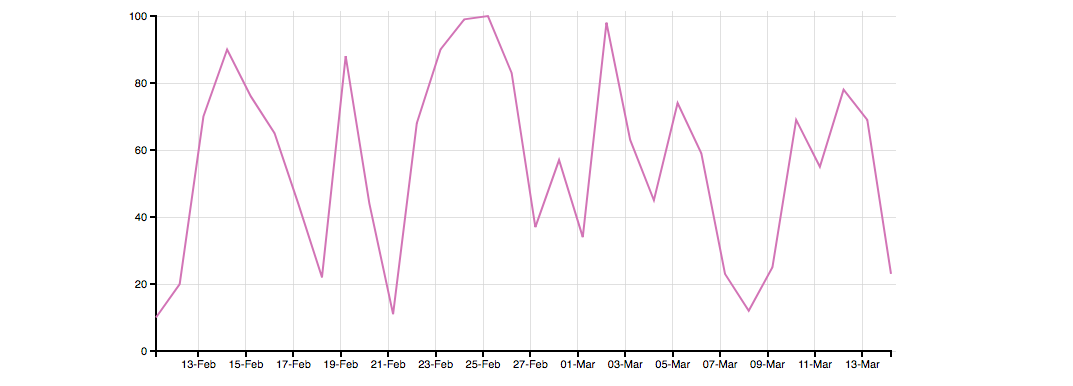
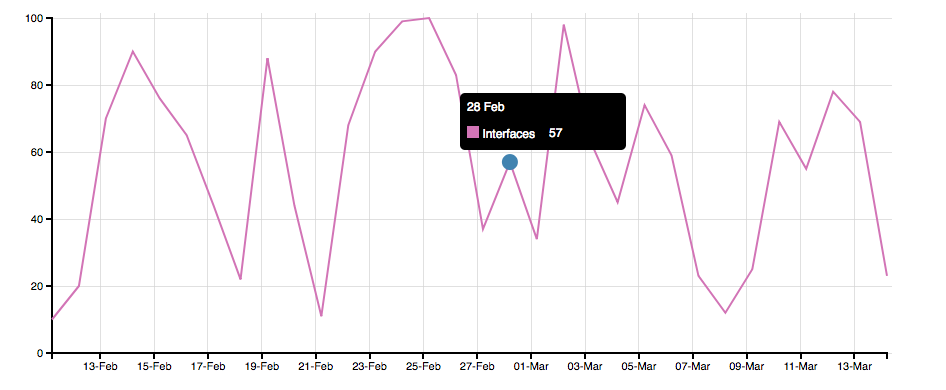
Stacked area with interactive tooltip

diff --git a/underscore.js b/underscore.js
@@ -1,0 +1,5 @@
+//     Underscore.js 1.9.0
+//     http://underscorejs.org
+//     (c) 2009-2018 Jeremy Ashkenas, DocumentCloud and Investigative Reporters & Editors
+//     Underscore may be freely distributed under the MIT license.
+!function(){var n="object"==typeof self&&self.self===self&&self||"object"==typeof global&&global.global===global&&global||this||{},r=n._,e=Array.prototype,o=Object.prototype,s="undefined"!=typeof Symbol?Symbol.prototype:null,u=e.push,c=e.slice,p=o.toString,i=o.hasOwnProperty,t=Array.isArray,a=Object.keys,l=Object.create,f=function(){},h=function(n){return n instanceof h?n:this instanceof h?void(this._wrapped=n):new h(n)};"undefined"==typeof exports||exports.nodeType?n._=h:("undefined"!=typeof module&&!module.nodeType&&module.exports&&(exports=module.exports=h),exports._=h),h.VERSION="1.9.0";var v,y=function(u,i,n){if(void 0===i)return u;switch(null==n?3:n){case 1:return function(n){return u.call(i,n)};case 3:return function(n,r,t){return u.call(i,n,r,t)};case 4:return function(n,r,t,e){return u.call(i,n,r,t,e)}}return function(){return u.apply(i,arguments)}},d=function(n,r,t){return h.iteratee!==v?h.iteratee(n,r):null==n?h.identity:h.isFunction(n)?y(n,r,t):h.isObject(n)&&!h.isArray(n)?h.matcher(n):h.property(n)};h.iteratee=v=function(n,r){return d(n,r,1/0)};var g=function(u,i){return i=null==i?u.length-1:+i,function(){for(var n=Math.max(arguments.length-i,0),r=Array(n),t=0;t<n;t++)r[t]=arguments[t+i];switch(i){case 0:return u.call(this,r);case 1:return u.call(this,arguments[0],r);case 2:return u.call(this,arguments[0],arguments[1],r)}var e=Array(i+1);for(t=0;t<i;t++)e[t]=arguments[t];return e[i]=r,u.apply(this,e)}},m=function(n){if(!h.isObject(n))return{};if(l)return l(n);f.prototype=n;var r=new f;return f.prototype=null,r},b=function(r){return function(n){return null==n?void 0:n[r]}},j=function(n,r){for(var t=r.length,e=0;e<t;e++){if(null==n)return;n=n[r[e]]}return t?n:void 0},x=Math.pow(2,53)-1,_=b("length"),A=function(n){var r=_(n);return"number"==typeof r&&0<=r&&r<=x};h.each=h.forEach=function(n,r,t){var e,u;if(r=y(r,t),A(n))for(e=0,u=n.length;e<u;e++)r(n[e],e,n);else{var i=h.keys(n);for(e=0,u=i.length;e<u;e++)r(n[i[e]],i[e],n)}return n},h.map=h.collect=function(n,r,t){r=d(r,t);for(var e=!A(n)&&h.keys(n),u=(e||n).length,i=Array(u),o=0;o<u;o++){var a=e?e[o]:o;i[o]=r(n[a],a,n)}return i};var w=function(c){return function(n,r,t,e){var u=3<=arguments.length;return function(n,r,t,e){var u=!A(n)&&h.keys(n),i=(u||n).length,o=0<c?0:i-1;for(e||(t=n[u?u[o]:o],o+=c);0<=o&&o<i;o+=c){var a=u?u[o]:o;t=r(t,n[a],a,n)}return t}(n,y(r,e,4),t,u)}};h.reduce=h.foldl=h.inject=w(1),h.reduceRight=h.foldr=w(-1),h.find=h.detect=function(n,r,t){var e=(A(n)?h.findIndex:h.findKey)(n,r,t);if(void 0!==e&&-1!==e)return n[e]},h.filter=h.select=function(n,e,r){var u=[];return e=d(e,r),h.each(n,function(n,r,t){e(n,r,t)&&u.push(n)}),u},h.reject=function(n,r,t){return h.filter(n,h.negate(d(r)),t)},h.every=h.all=function(n,r,t){r=d(r,t);for(var e=!A(n)&&h.keys(n),u=(e||n).length,i=0;i<u;i++){var o=e?e[i]:i;if(!r(n[o],o,n))return!1}return!0},h.some=h.any=function(n,r,t){r=d(r,t);for(var e=!A(n)&&h.keys(n),u=(e||n).length,i=0;i<u;i++){var o=e?e[i]:i;if(r(n[o],o,n))return!0}return!1},h.contains=h.includes=h.include=function(n,r,t,e){return A(n)||(n=h.values(n)),("number"!=typeof t||e)&&(t=0),0<=h.indexOf(n,r,t)},h.invoke=g(function(n,t,e){var u,i;return h.isFunction(t)?i=t:h.isArray(t)&&(u=t.slice(0,-1),t=t[t.length-1]),h.map(n,function(n){var r=i;if(!r){if(u&&u.length&&(n=j(n,u)),null==n)return;r=n[t]}return null==r?r:r.apply(n,e)})}),h.pluck=function(n,r){return h.map(n,h.property(r))},h.where=function(n,r){return h.filter(n,h.matcher(r))},h.findWhere=function(n,r){return h.find(n,h.matcher(r))},h.max=function(n,e,r){var t,u,i=-1/0,o=-1/0;if(null==e||"number"==typeof e&&"object"!=typeof n[0]&&null!=n)for(var a=0,c=(n=A(n)?n:h.values(n)).length;a<c;a++)null!=(t=n[a])&&i<t&&(i=t);else e=d(e,r),h.each(n,function(n,r,t){u=e(n,r,t),(o<u||u===-1/0&&i===-1/0)&&(i=n,o=u)});return i},h.min=function(n,e,r){var t,u,i=1/0,o=1/0;if(null==e||"number"==typeof e&&"object"!=typeof n[0]&&null!=n)for(var a=0,c=(n=A(n)?n:h.values(n)).length;a<c;a++)null!=(t=n[a])&&t<i&&(i=t);else e=d(e,r),h.each(n,function(n,r,t){((u=e(n,r,t))<o||u===1/0&&i===1/0)&&(i=n,o=u)});return i},h.shuffle=function(n){return h.sample(n,1/0)},h.sample=function(n,r,t){if(null==r||t)return A(n)||(n=h.values(n)),n[h.random(n.length-1)];var e=A(n)?h.clone(n):h.values(n),u=_(e);r=Math.max(Math.min(r,u),0);for(var i=u-1,o=0;o<r;o++){var a=h.random(o,i),c=e[o];e[o]=e[a],e[a]=c}return e.slice(0,r)},h.sortBy=function(n,e,r){var u=0;return e=d(e,r),h.pluck(h.map(n,function(n,r,t){return{value:n,index:u++,criteria:e(n,r,t)}}).sort(function(n,r){var t=n.criteria,e=r.criteria;if(t!==e){if(e<t||void 0===t)return 1;if(t<e||void 0===e)return-1}return n.index-r.index}),"value")};var O=function(o,r){return function(e,u,n){var i=r?[[],[]]:{};return u=d(u,n),h.each(e,function(n,r){var t=u(n,r,e);o(i,n,t)}),i}};h.groupBy=O(function(n,r,t){h.has(n,t)?n[t].push(r):n[t]=[r]}),h.indexBy=O(function(n,r,t){n[t]=r}),h.countBy=O(function(n,r,t){h.has(n,t)?n[t]++:n[t]=1});var k=/[^\ud800-\udfff]|[\ud800-\udbff][\udc00-\udfff]|[\ud800-\udfff]/g;h.toArray=function(n){return n?h.isArray(n)?c.call(n):h.isString(n)?n.match(k):A(n)?h.map(n,h.identity):h.values(n):[]},h.size=function(n){return null==n?0:A(n)?n.length:h.keys(n).length},h.partition=O(function(n,r,t){n[t?0:1].push(r)},!0),h.first=h.head=h.take=function(n,r,t){if(!(null==n||n.length<1))return null==r||t?n[0]:h.initial(n,n.length-r)},h.initial=function(n,r,t){return c.call(n,0,Math.max(0,n.length-(null==r||t?1:r)))},h.last=function(n,r,t){if(!(null==n||n.length<1))return null==r||t?n[n.length-1]:h.rest(n,Math.max(0,n.length-r))},h.rest=h.tail=h.drop=function(n,r,t){return c.call(n,null==r||t?1:r)},h.compact=function(n){return h.filter(n,Boolean)};var S=function(n,r,t,e){for(var u=(e=e||[]).length,i=0,o=_(n);i<o;i++){var a=n[i];if(A(a)&&(h.isArray(a)||h.isArguments(a)))if(r)for(var c=0,l=a.length;c<l;)e[u++]=a[c++];else S(a,r,t,e),u=e.length;else t||(e[u++]=a)}return e};h.flatten=function(n,r){return S(n,r,!1)},h.without=g(function(n,r){return h.difference(n,r)}),h.uniq=h.unique=function(n,r,t,e){h.isBoolean(r)||(e=t,t=r,r=!1),null!=t&&(t=d(t,e));for(var u=[],i=[],o=0,a=_(n);o<a;o++){var c=n[o],l=t?t(c,o,n):c;r&&!t?(o&&i===l||u.push(c),i=l):t?h.contains(i,l)||(i.push(l),u.push(c)):h.contains(u,c)||u.push(c)}return u},h.union=g(function(n){return h.uniq(S(n,!0,!0))}),h.intersection=function(n){for(var r=[],t=arguments.length,e=0,u=_(n);e<u;e++){var i=n[e];if(!h.contains(r,i)){var o;for(o=1;o<t&&h.contains(arguments[o],i);o++);o===t&&r.push(i)}}return r},h.difference=g(function(n,r){return r=S(r,!0,!0),h.filter(n,function(n){return!h.contains(r,n)})}),h.unzip=function(n){for(var r=n&&h.max(n,_).length||0,t=Array(r),e=0;e<r;e++)t[e]=h.pluck(n,e);return t},h.zip=g(h.unzip),h.object=function(n,r){for(var t={},e=0,u=_(n);e<u;e++)r?t[n[e]]=r[e]:t[n[e][0]]=n[e][1];return t};var M=function(i){return function(n,r,t){r=d(r,t);for(var e=_(n),u=0<i?0:e-1;0<=u&&u<e;u+=i)if(r(n[u],u,n))return u;return-1}};h.findIndex=M(1),h.findLastIndex=M(-1),h.sortedIndex=function(n,r,t,e){for(var u=(t=d(t,e,1))(r),i=0,o=_(n);i<o;){var a=Math.floor((i+o)/2);t(n[a])<u?i=a+1:o=a}return i};var F=function(i,o,a){return function(n,r,t){var e=0,u=_(n);if("number"==typeof t)0<i?e=0<=t?t:Math.max(t+u,e):u=0<=t?Math.min(t+1,u):t+u+1;else if(a&&t&&u)return n[t=a(n,r)]===r?t:-1;if(r!=r)return 0<=(t=o(c.call(n,e,u),h.isNaN))?t+e:-1;for(t=0<i?e:u-1;0<=t&&t<u;t+=i)if(n[t]===r)return t;return-1}};h.indexOf=F(1,h.findIndex,h.sortedIndex),h.lastIndexOf=F(-1,h.findLastIndex),h.range=function(n,r,t){null==r&&(r=n||0,n=0),t||(t=r<n?-1:1);for(var e=Math.max(Math.ceil((r-n)/t),0),u=Array(e),i=0;i<e;i++,n+=t)u[i]=n;return u},h.chunk=function(n,r){if(null==r||r<1)return[];for(var t=[],e=0,u=n.length;e<u;)t.push(c.call(n,e,e+=r));return t};var E=function(n,r,t,e,u){if(!(e instanceof r))return n.apply(t,u);var i=m(n.prototype),o=n.apply(i,u);return h.isObject(o)?o:i};h.bind=g(function(r,t,e){if(!h.isFunction(r))throw new TypeError("Bind must be called on a function");var u=g(function(n){return E(r,u,t,this,e.concat(n))});return u}),h.partial=g(function(u,i){var o=h.partial.placeholder,a=function(){for(var n=0,r=i.length,t=Array(r),e=0;e<r;e++)t[e]=i[e]===o?arguments[n++]:i[e];for(;n<arguments.length;)t.push(arguments[n++]);return E(u,a,this,this,t)};return a}),(h.partial.placeholder=h).bindAll=g(function(n,r){var t=(r=S(r,!1,!1)).length;if(t<1)throw new Error("bindAll must be passed function names");for(;t--;){var e=r[t];n[e]=h.bind(n[e],n)}}),h.memoize=function(e,u){var i=function(n){var r=i.cache,t=""+(u?u.apply(this,arguments):n);return h.has(r,t)||(r[t]=e.apply(this,arguments)),r[t]};return i.cache={},i},h.delay=g(function(n,r,t){return setTimeout(function(){return n.apply(null,t)},r)}),h.defer=h.partial(h.delay,h,1),h.throttle=function(t,e,u){var i,o,a,c,l=0;u||(u={});var f=function(){l=!1===u.leading?0:h.now(),i=null,c=t.apply(o,a),i||(o=a=null)},n=function(){var n=h.now();l||!1!==u.leading||(l=n);var r=e-(n-l);return o=this,a=arguments,r<=0||e<r?(i&&(clearTimeout(i),i=null),l=n,c=t.apply(o,a),i||(o=a=null)):i||!1===u.trailing||(i=setTimeout(f,r)),c};return n.cancel=function(){clearTimeout(i),l=0,i=o=a=null},n},h.debounce=function(t,e,u){var i,o,a=function(n,r){i=null,r&&(o=t.apply(n,r))},n=g(function(n){if(i&&clearTimeout(i),u){var r=!i;i=setTimeout(a,e),r&&(o=t.apply(this,n))}else i=h.delay(a,e,this,n);return o});return n.cancel=function(){clearTimeout(i),i=null},n},h.wrap=function(n,r){return h.partial(r,n)},h.negate=function(n){return function(){return!n.apply(this,arguments)}},h.compose=function(){var t=arguments,e=t.length-1;return function(){for(var n=e,r=t[e].apply(this,arguments);n--;)r=t[n].call(this,r);return r}},h.after=function(n,r){return function(){if(--n<1)return r.apply(this,arguments)}},h.before=function(n,r){var t;return function(){return 0<--n&&(t=r.apply(this,arguments)),n<=1&&(r=null),t}},h.once=h.partial(h.before,2),h.restArguments=g;var N=!{toString:null}.propertyIsEnumerable("toString"),I=["valueOf","isPrototypeOf","toString","propertyIsEnumerable","hasOwnProperty","toLocaleString"],T=function(n,r){var t=I.length,e=n.constructor,u=h.isFunction(e)&&e.prototype||o,i="constructor";for(h.has(n,i)&&!h.contains(r,i)&&r.push(i);t--;)(i=I[t])in n&&n[i]!==u[i]&&!h.contains(r,i)&&r.push(i)};h.keys=function(n){if(!h.isObject(n))return[];if(a)return a(n);var r=[];for(var t in n)h.has(n,t)&&r.push(t);return N&&T(n,r),r},h.allKeys=function(n){if(!h.isObject(n))return[];var r=[];for(var t in n)r.push(t);return N&&T(n,r),r},h.values=function(n){for(var r=h.keys(n),t=r.length,e=Array(t),u=0;u<t;u++)e[u]=n[r[u]];return e},h.mapObject=function(n,r,t){r=d(r,t);for(var e=h.keys(n),u=e.length,i={},o=0;o<u;o++){var a=e[o];i[a]=r(n[a],a,n)}return i},h.pairs=function(n){for(var r=h.keys(n),t=r.length,e=Array(t),u=0;u<t;u++)e[u]=[r[u],n[r[u]]];return e},h.invert=function(n){for(var r={},t=h.keys(n),e=0,u=t.length;e<u;e++)r[n[t[e]]]=t[e];return r},h.functions=h.methods=function(n){var r=[];for(var t in n)h.isFunction(n[t])&&r.push(t);return r.sort()};var B=function(c,l){return function(n){var r=arguments.length;if(l&&(n=Object(n)),r<2||null==n)return n;for(var t=1;t<r;t++)for(var e=arguments[t],u=c(e),i=u.length,o=0;o<i;o++){var a=u[o];l&&void 0!==n[a]||(n[a]=e[a])}return n}};h.extend=B(h.allKeys),h.extendOwn=h.assign=B(h.keys),h.findKey=function(n,r,t){r=d(r,t);for(var e,u=h.keys(n),i=0,o=u.length;i<o;i++)if(r(n[e=u[i]],e,n))return e};var R,q,K=function(n,r,t){return r in t};h.pick=g(function(n,r){var t={},e=r[0];if(null==n)return t;h.isFunction(e)?(1<r.length&&(e=y(e,r[1])),r=h.allKeys(n)):(e=K,r=S(r,!1,!1),n=Object(n));for(var u=0,i=r.length;u<i;u++){var o=r[u],a=n[o];e(a,o,n)&&(t[o]=a)}return t}),h.omit=g(function(n,t){var r,e=t[0];return h.isFunction(e)?(e=h.negate(e),1<t.length&&(r=t[1])):(t=h.map(S(t,!1,!1),String),e=function(n,r){return!h.contains(t,r)}),h.pick(n,e,r)}),h.defaults=B(h.allKeys,!0),h.create=function(n,r){var t=m(n);return r&&h.extendOwn(t,r),t},h.clone=function(n){return h.isObject(n)?h.isArray(n)?n.slice():h.extend({},n):n},h.tap=function(n,r){return r(n),n},h.isMatch=function(n,r){var t=h.keys(r),e=t.length;if(null==n)return!e;for(var u=Object(n),i=0;i<e;i++){var o=t[i];if(r[o]!==u[o]||!(o in u))return!1}return!0},R=function(n,r,t,e){if(n===r)return 0!==n||1/n==1/r;if(null==n||null==r)return!1;if(n!=n)return r!=r;var u=typeof n;return("function"===u||"object"===u||"object"==typeof r)&&q(n,r,t,e)},q=function(n,r,t,e){n instanceof h&&(n=n._wrapped),r instanceof h&&(r=r._wrapped);var u=p.call(n);if(u!==p.call(r))return!1;switch(u){case"[object RegExp]":case"[object String]":return""+n==""+r;case"[object Number]":return+n!=+n?+r!=+r:0==+n?1/+n==1/r:+n==+r;case"[object Date]":case"[object Boolean]":return+n==+r;case"[object Symbol]":return s.valueOf.call(n)===s.valueOf.call(r)}var i="[object Array]"===u;if(!i){if("object"!=typeof n||"object"!=typeof r)return!1;var o=n.constructor,a=r.constructor;if(o!==a&&!(h.isFunction(o)&&o instanceof o&&h.isFunction(a)&&a instanceof a)&&"constructor"in n&&"constructor"in r)return!1}e=e||[];for(var c=(t=t||[]).length;c--;)if(t[c]===n)return e[c]===r;if(t.push(n),e.push(r),i){if((c=n.length)!==r.length)return!1;for(;c--;)if(!R(n[c],r[c],t,e))return!1}else{var l,f=h.keys(n);if(c=f.length,h.keys(r).length!==c)return!1;for(;c--;)if(l=f[c],!h.has(r,l)||!R(n[l],r[l],t,e))return!1}return t.pop(),e.pop(),!0},h.isEqual=function(n,r){return R(n,r)},h.isEmpty=function(n){return null==n||(A(n)&&(h.isArray(n)||h.isString(n)||h.isArguments(n))?0===n.length:0===h.keys(n).length)},h.isElement=function(n){return!(!n||1!==n.nodeType)},h.isArray=t||function(n){return"[object Array]"===p.call(n)},h.isObject=function(n){var r=typeof n;return"function"===r||"object"===r&&!!n},h.each(["Arguments","Function","String","Number","Date","RegExp","Error","Symbol","Map","WeakMap","Set","WeakSet"],function(r){h["is"+r]=function(n){return p.call(n)==="[object "+r+"]"}}),h.isArguments(arguments)||(h.isArguments=function(n){return h.has(n,"callee")});var z=n.document&&n.document.childNodes;"function"!=typeof/./&&"object"!=typeof Int8Array&&"function"!=typeof z&&(h.isFunction=function(n){return"function"==typeof n||!1}),h.isFinite=function(n){return!h.isSymbol(n)&&isFinite(n)&&!isNaN(parseFloat(n))},h.isNaN=function(n){return h.isNumber(n)&&isNaN(n)},h.isBoolean=function(n){return!0===n||!1===n||"[object Boolean]"===p.call(n)},h.isNull=function(n){return null===n},h.isUndefined=function(n){return void 0===n},h.has=function(n,r){if(!h.isArray(r))return null!=n&&i.call(n,r);for(var t=r.length,e=0;e<t;e++){var u=r[e];if(null==n||!i.call(n,u))return!1;n=n[u]}return!!t},h.noConflict=function(){return n._=r,this},h.identity=function(n){return n},h.constant=function(n){return function(){return n}},h.noop=function(){},h.property=function(r){return h.isArray(r)?function(n){return j(n,r)}:b(r)},h.propertyOf=function(r){return null==r?function(){}:function(n){return h.isArray(n)?j(r,n):r[n]}},h.matcher=h.matches=function(r){return r=h.extendOwn({},r),function(n){return h.isMatch(n,r)}},h.times=function(n,r,t){var e=Array(Math.max(0,n));r=y(r,t,1);for(var u=0;u<n;u++)e[u]=r(u);return e},h.random=function(n,r){return null==r&&(r=n,n=0),n+Math.floor(Math.random()*(r-n+1))},h.now=Date.now||function(){return(new Date).getTime()};var D={"&":"&amp;","<":"&lt;",">":"&gt;",'"':"&quot;","'":"&#x27;","`":"&#x60;"},L=h.invert(D),P=function(r){var t=function(n){return r[n]},n="(?:"+h.keys(r).join("|")+")",e=RegExp(n),u=RegExp(n,"g");return function(n){return n=null==n?"":""+n,e.test(n)?n.replace(u,t):n}};h.escape=P(D),h.unescape=P(L),h.result=function(n,r,t){h.isArray(r)||(r=[r]);var e=r.length;if(!e)return h.isFunction(t)?t.call(n):t;for(var u=0;u<e;u++){var i=null==n?void 0:n[r[u]];void 0===i&&(i=t,u=e),n=h.isFunction(i)?i.call(n):i}return n};var W=0;h.uniqueId=function(n){var r=++W+"";return n?n+r:r},h.templateSettings={evaluate:/<%([\s\S]+?)%>/g,interpolate:/<%=([\s\S]+?)%>/g,escape:/<%-([\s\S]+?)%>/g};var C=/(.)^/,J={"'":"'","\\":"\\","\r":"r","\n":"n","\u2028":"u2028","\u2029":"u2029"},U=/\\|'|\r|\n|\u2028|\u2029/g,V=function(n){return"\\"+J[n]};h.template=function(i,n,r){!n&&r&&(n=r),n=h.defaults({},n,h.templateSettings);var t,e=RegExp([(n.escape||C).source,(n.interpolate||C).source,(n.evaluate||C).source].join("|")+"|$","g"),o=0,a="__p+='";i.replace(e,function(n,r,t,e,u){return a+=i.slice(o,u).replace(U,V),o=u+n.length,r?a+="'+\n((__t=("+r+"))==null?'':_.escape(__t))+\n'":t?a+="'+\n((__t=("+t+"))==null?'':__t)+\n'":e&&(a+="';\n"+e+"\n__p+='"),n}),a+="';\n",n.variable||(a="with(obj||{}){\n"+a+"}\n"),a="var __t,__p='',__j=Array.prototype.join,"+"print=function(){__p+=__j.call(arguments,'');};\n"+a+"return __p;\n";try{t=new Function(n.variable||"obj","_",a)}catch(n){throw n.source=a,n}var u=function(n){return t.call(this,n,h)},c=n.variable||"obj";return u.source="function("+c+"){\n"+a+"}",u},h.chain=function(n){var r=h(n);return r._chain=!0,r};var $=function(n,r){return n._chain?h(r).chain():r};h.mixin=function(t){return h.each(h.functions(t),function(n){var r=h[n]=t[n];h.prototype[n]=function(){var n=[this._wrapped];return u.apply(n,arguments),$(this,r.apply(h,n))}}),h},h.mixin(h),h.each(["pop","push","reverse","shift","sort","splice","unshift"],function(r){var t=e[r];h.prototype[r]=function(){var n=this._wrapped;return t.apply(n,arguments),"shift"!==r&&"splice"!==r||0!==n.length||delete n[0],$(this,n)}}),h.each(["concat","join","slice"],function(n){var r=e[n];h.prototype[n]=function(){return $(this,r.apply(this._wrapped,arguments))}}),h.prototype.value=function(){return this._wrapped},h.prototype.valueOf=h.prototype.toJSON=h.prototype.value,h.prototype.toString=function(){return String(this._wrapped)},"function"==typeof define&&define.amd&&define("underscore",[],function(){return h})}();

diff --git a/stacked-area-chart.html b/stacked-area-chart.html
@@ -4,6 +4,7 @@
         <meta charset="utf-8">
         <title>D3 Test</title>
         <script type="text/javascript" src="d3/d3.v4.min.js"></script>
+        <script type="text/javascript" src="underscore.js"></script>
         <style type="text/css">
         .axis path,
         .axis line {
@@ -20,13 +21,70 @@
           stroke-opacity: 0.7;
           shape-rendering: crispEdges;
         }
+        .tool-tip {
+          position:absolute;
+          z-index:10;
+          visibility:hidden;
+          background-color: white;
+          color: black;
+          border-radius: 5px;
+          font-size: 12px;
+          font-family: "Source Sans Pro", sans-serif;
+          pointer-events: none;
+          border: solid 1px;
+        }
+        .ttip-div {
+          padding: 5px;
+          width: 70px;
+        }
+
+        .dot {
+            /* consider the stroke-with the mouse detect radius? */
+            stroke: transparent;
+            stroke-width: 10px;  
+            cursor: pointer;
+          }
+           
+          .dot:hover {
+            stroke: rgba(68, 127, 255, 0.3);
+          }
         </style>
     </head>
     <body>
+        <div id="stacked-area-chart">
+            <div class="tool-tip">
+              <table>
+                  <tr>
+                      <td class="ttip-div ttip-date" colspan="2">
+                      May 01
+                      </td>
+                  </tr>
+                  <tr> 
+                      <td class="ttip-div">
+                        <span style="background-color: #00b4e8;width: 12px;height: 12px;display:inline-block"></span>
+                        Received 
+                      </td>
+                      <td class="ttip-div ttip-received">
+                        90
+                      </td>
+                  </tr>
+                  <tr> 
+                      <td class="ttip-div">
+                        <span style="background-color: #00edfc;width: 12px;height: 12px;display:inline-block"></span>
+                        Sent 
+                      </td>
+                      <td class="ttip-div ttip-sent">
+                        90
+                      </td>
+                  </tr>
+                </table>
+            </div>
+        </div>
         <script>
-                var w = 800;
-                var h = 500;
-                var p = 50;
+
+                var margin = {top: 20, right: 30, bottom: 30, left: 40},
+                    width = 800 - margin.left - margin.right,
+                    height = 500 - margin.top - margin.bottom;
 
                 var dataSet = 
                           [ 
@@ -67,55 +125,131 @@
                               "bytesSum": 13
                             }
                           ];
-
+                var dataPoints = {};
 
                 // create xScale
                 var xScale = d3.scaleTime()
                     .domain(d3.extent(dataSet, function(d) { return d.date; }))
-                    .range([p, w - 15]);
+                    .range([0, width]);
 
                 // create yScale
                 var yScale = d3.scaleLinear()
                   .domain([0, d3.max(dataSet, function (d) { return d.bytesSum; })])
-                  .range([h-p , 0]);
+                  .range([height, 0]);
+
 
                 // create SVG
-                var svg = d3.select("body")
-                  .append("svg")
-                  .attr("width", w)
-                  .attr("height", h);
-
-                // create xAxis
-                svg.append("g")
-                  .attr("class", "axis")
-                  .attr("transform", "translate(0," + (h - p) + ")")
-                  .call(d3.axisBottom(xScale).tickFormat(d3.timeFormat("%d-%b")));
-
-                // create yAxis
-                svg.append("g")
-                  .attr("class", "axis")
-                  .attr("transform", "translate(" + (p-5) + ", 0)")
-                  .call(d3.axisLeft(yScale));
+                var chart = d3.select("#stacked-area-chart").append("svg");
+                var svg = chart.attr("width", width + margin.left + margin.right)
+                               .attr("height", height + margin.top + margin.bottom)
+                               .append("g")
+                               .attr("transform", "translate(" + margin.left + "," + margin.top + ")");
 
                 // area generator
                 var area = d3.area()
                     .x(function(d, i) { return xScale(d.data.date); })
                     .y0(function(d) { return yScale(d[0]); })
                     .y1(function(d) { return yScale(d[1]); })
-                    .curve(d3.curveCatmullRom.alpha(0.5));
 
                 var stack = d3.stack().keys(['bytesSent', 'bytesReceive']);
+
                 var stackedSeries = stack(dataSet);
 
-                //creating paths
-                var area = svg.append('g').selectAll('path')
+                svg.selectAll('path')
                       .data(stackedSeries)
                       .enter()
-                      .append('g')
                       .append('path')
                       .style('fill', function(d) { return d.key === 'bytesSent' ? '#00edfc': '#00b4e8';  })
                       .attr('d', area)
 
+                //points
+                var points = svg.selectAll('.dots')
+                    .data(stackedSeries)
+                    .enter()
+                    .append("g")
+                    .attr("class", "dots")
+                    .attr("d", area)
+
+                // creating dots
+                points.selectAll('.dot')
+                    //.data(stackedSeries)
+                    .data(function(d, index){
+                          let i = index;
+                          var a = [];
+                          d.forEach(function(point,index){
+                              a.push({'index': i, 'point': point});
+                          });     
+                          return a;
+                    })
+                    .enter()
+                    .append('circle')
+                    .attr('class','dot')
+                    .attr("r", 2.5)
+                    .attr('fill', function(d,i){
+                        return '#abc';
+                    })  
+                    .attr("transform", function(d) {
+                    if(d.index === 1){
+                      d.point[1] = d.point[1] - d.point[0];
+                    }
+
+                    var key = xScale(d.point.data.date);
+                    dataPoints[key] = dataPoints[key] || [];
+                    dataPoints[key].push(d);
+                    return "translate(" + xScale(d.point.data.date) + "," + yScale((d.point[0] + d.point[1])) + ")"; 
+                    });
+
+                //vertical line
+                var vertline = svg.append('line')
+                  .attr('class','vertline')
+                  .attr('x1',0)
+                  .attr('x2',0)
+                  .attr('y1',0)
+                  .attr('y2',height)
+                  .attr('stroke','rgba(100,150,200,0.8)')
+                  .attr('stroke-width',1);
+
+              chart.on('mousemove', function () {
+                mouseX = d3.event.pageX-margin.left;
+                vertline.attr('opacity', '1');
+                var keys = _.keys(dataPoints).sort();
+                var epsilon = (keys[1]-keys[0])/2;
+                var nearest = _.find(keys, function(a) {
+                  return Math.abs(a - mouseX) <= epsilon
+                });
+                if(nearest){
+                  var dps = dataPoints[nearest];
+                  vertline.attr('x1', nearest)
+                          .attr('x2', nearest);
+                  d3.select('.ttip-date').html(d3.timeFormat('%d %b')(new Date(dataPoints[nearest][0].point.data.date)));
+                  d3.select('.ttip-sent').html(dataPoints[nearest][0].point.data.bytesSent);
+                  d3.select('.ttip-received').html(dataPoints[nearest][0].point.data.bytesReceive);
+
+                var tooltip = d3.select('.tool-tip');
+                tooltip.style("visibility", "visible");
+                tooltip.style("top", 100+"px").style("left", nearest - 150+"px"); 
+
+                }
+              });
+
+              chart.on('mouseout', function(){
+                vertline.attr('opacity', '0');
+                var tooltip = d3.select('.tool-tip');
+                tooltip.style("visibility", "hidden");
+              })
+
+              // create xAxis
+              svg.append("g")
+                .attr("class", "axis")
+                .attr("transform", "translate(0," + height + ")")
+                .call(d3.axisBottom(xScale).tickFormat(d3.timeFormat("%d-%b")));
+
+              // create yAxis
+              svg.append("g")
+                .attr("class", "axis")
+                .call(d3.axisLeft(yScale));
+
             </script>
+
     </body>
 </html>  
